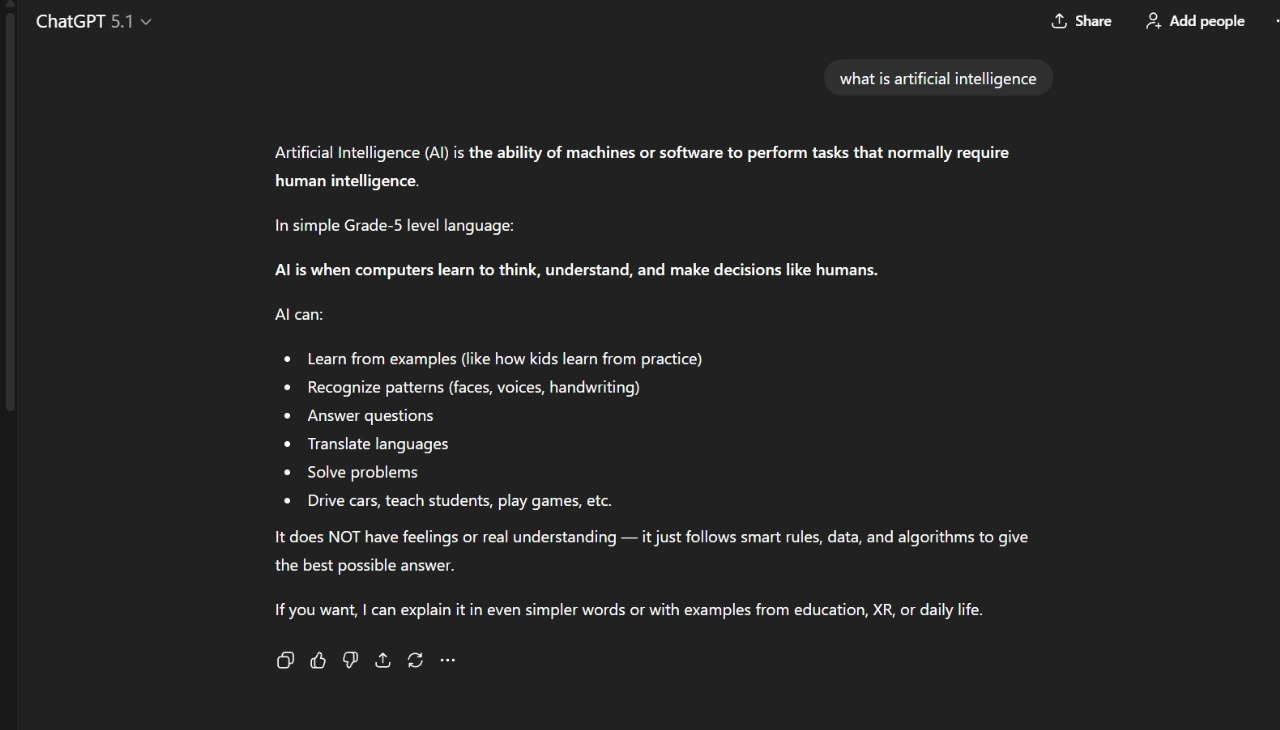
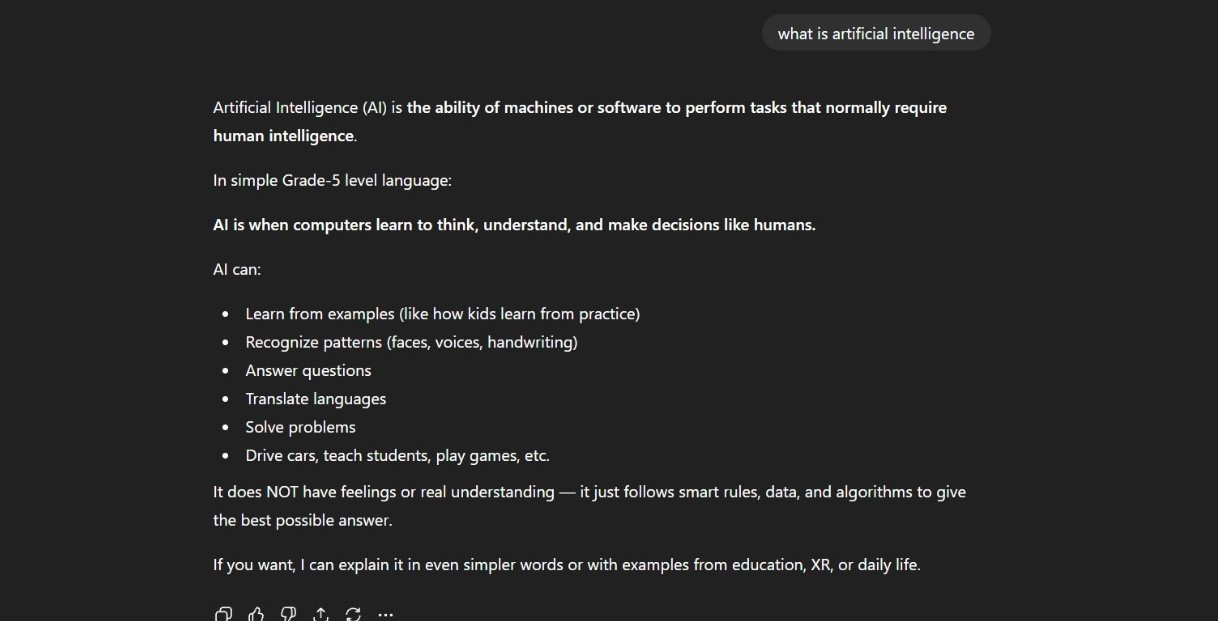
fix smthg

diff --git a/server/index.ts b/server/index.ts
@@ -203,12 +203,38 @@ app.use((req, res, next) => {
     const distPath = path.resolve(__dirname, "..", "dist", "public");
 
     if (fs.existsSync(distPath)) {
-      app.use(express.static(distPath));
+      // Serve static assets with proper cache control
+      app.use(express.static(distPath, {
+        maxAge: 0, // Don't cache by default
+        etag: true, // Use ETags for cache validation
+        lastModified: true,
+        setHeaders: (res, filePath) => {
+          // Cache hashed assets (with version hash in filename) for 1 year
+          if (filePath.match(/\.(js|css|woff2?|ttf|eot|svg|png|jpg|jpeg|gif|webp|ico)$/)) {
+            if (filePath.match(/\.[a-f0-9]{8,}\./)) {
+              // Files with content hash can be cached forever
+              res.setHeader('Cache-Control', 'public, max-age=31536000, immutable');
+            } else {
+              // Other assets cache for 1 hour
+              res.setHeader('Cache-Control', 'public, max-age=3600, must-revalidate');
+            }
+          } else {
+            // HTML and other files - no cache
+            res.setHeader('Cache-Control', 'no-cache, no-store, must-revalidate');
+            res.setHeader('Pragma', 'no-cache');
+            res.setHeader('Expires', '0');
+          }
+        }
+      }));
       log(`Serving static files from: ${distPath}`);
 
       // SPA fallback - serve index.html for all non-API routes
       app.get("*", (req, res) => {
         if (!req.path.startsWith("/api")) {
+          // Prevent caching of index.html
+          res.setHeader('Cache-Control', 'no-cache, no-store, must-revalidate');
+          res.setHeader('Pragma', 'no-cache');
+          res.setHeader('Expires', '0');
           res.sendFile(path.resolve(distPath, "index.html"));
         }
       });

diff --git a/client/src/components/sections/hero2.tsx b/client/src/components/sections/hero2.tsx
@@ -1,5 +1,5 @@
 import { Button } from '@/components/ui/button';
-import { Play, Video, ChevronDown ,Sparkles} from 'lucide-react';
+import { Play, Video, ChevronDown, Sparkles, Zap } from 'lucide-react';
 import { Link } from 'wouter';
 import courseVideo from '@assets/video (2).mp4';
 import { useTypingAnimation } from '@/hooks/useTypingAnimation';
@@ -85,6 +85,17 @@ export default function HeroSection() {
                 >
                   <Video className="w-5 h-5 mr-2" />
                   How It Works
+                </Button>
+              </Link>
+              <Link href="/comparison">
+                <Button 
+                  variant="outline"
+                  size="lg"
+                  className="border-2 border-yellow-400 bg-gradient-to-r from-amber-500 to-orange-500 text-white   px-6 sm:px-8 py-2.5 sm:py-4 rounded-full font-semibold hover:scale-110 hover:bg-yellow-400/10 transition-all text-sm sm:text-base lg:text-lg w-full sm:w-auto"
+                  data-testid="button-comparison"
+                >
+                  <Zap className="w-5 h-5 mr-2" />
+                  GPT vs ProfAI
                 </Button>
               </Link>
             </div>

diff --git a/client/index.html b/client/index.html
@@ -3,6 +3,10 @@
   <head>
     <meta charset="UTF-8" />
     <meta name="viewport" content="width=device-width, initial-scale=1.0, maximum-scale=1" />
+    <!-- Prevent caching of HTML -->
+    <meta http-equiv="Cache-Control" content="no-cache, no-store, must-revalidate" />
+    <meta http-equiv="Pragma" content="no-cache" />
+    <meta http-equiv="Expires" content="0" />
     <link rel="preconnect" href="https://fonts.googleapis.com">
     <link rel="preconnect" href="https://fonts.gstatic.com" crossorigin>
     <title>ProfessorsAI</title>

diff --git a/client/src/lib/queryClient.ts b/client/src/lib/queryClient.ts
@@ -46,8 +46,9 @@ export const queryClient = new QueryClient({
     queries: {
       queryFn: getQueryFn({ on401: "throw" }),
       refetchInterval: false,
-      refetchOnWindowFocus: false,
-      staleTime: Infinity,
+      refetchOnWindowFocus: true, // Refetch when user returns to tab
+      staleTime: 1000 * 60 * 5, // 5 minutes instead of Infinity
+      gcTime: 1000 * 60 * 10, // 10 minutes garbage collection
       retry: false,
     },
     mutations: {

diff --git a/vite.config.ts b/vite.config.ts
@@ -27,6 +27,14 @@ export default defineConfig({
   build: {
     outDir: path.resolve(import.meta.dirname, "dist/public"),
     emptyOutDir: true,
+    rollupOptions: {
+      output: {
+        // Add content hash to filenames for cache busting
+        entryFileNames: 'assets/[name].[hash].js',
+        chunkFileNames: 'assets/[name].[hash].js',
+        assetFileNames: 'assets/[name].[hash].[ext]'
+      }
+    }
   },
   server: {
     fs: {
